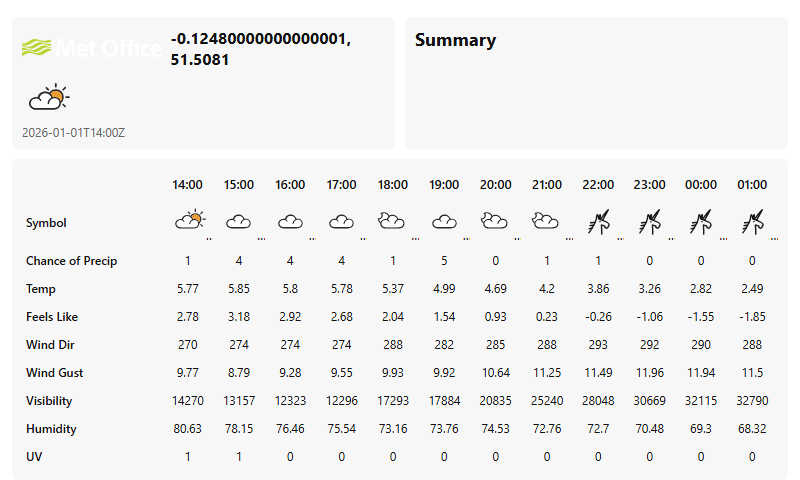
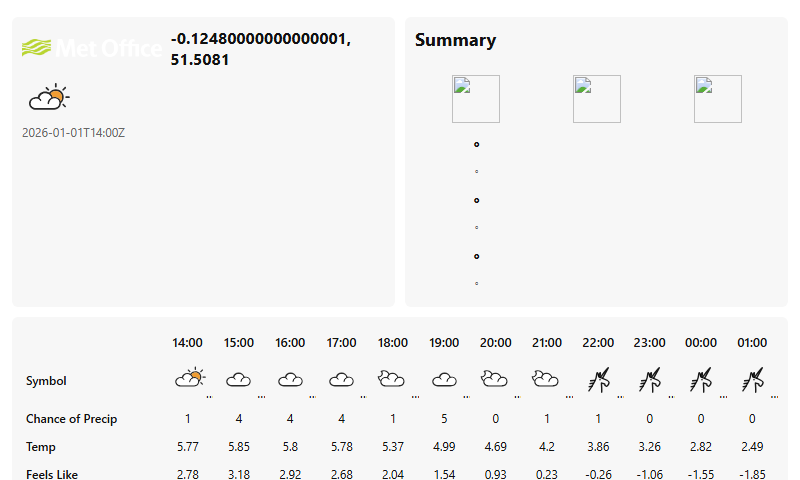
feat: introduce initial html for daily

diff --git a/src/plugins/burnsyweather/render/burnsyweather.html b/src/plugins/burnsyweather/render/burnsyweather.html
@@ -22,7 +22,38 @@
       </div>
     <div class="panel right">
       <div class="panel-title">Summary</div>
-      <div class="panel-body small">{{ content | safe }}</div>
+      <div class="panel-body small">
+        <table class="summary-table">
+          <thead>
+            <tr>
+              <th>{{ daily_1_heading }}</th>
+              <th>{{ daily_2_heading }}</th>
+              <th>{{ daily_3_heading }}</th>
+            </tr>
+          </thead>
+          <tbody>
+            <tr class="symbols-row">
+              <td class="summary-symbol"><img src="{{ daily_1_symbol }}" alt=""></td>
+              <td class="summary-symbol"><img src="{{ daily_2_symbol }}" alt=""></td>
+              <td class="summary-symbol"><img src="{{ daily_3_symbol }}" alt=""></td>
+            </tr>
+            <tr class="temps-row">
+              <td class="summary-temp">
+                <div class="big-temp">{{ daily_1_high }}<span class="deg">°</span></div>
+                <div class="small-temp">{{ daily_1_low }}<span class="deg">°</span></div>
+              </td>
+              <td class="summary-temp">
+                <div class="big-temp">{{ daily_2_high }}<span class="deg">°</span></div>
+                <div class="small-temp">{{ daily_2_low }}<span class="deg">°</span></div>
+              </td>
+              <td class="summary-temp">
+                <div class="big-temp">{{ daily_3_high }}<span class="deg">°</span></div>
+                <div class="small-temp">{{ daily_3_low }}<span class="deg">°</span></div>
+              </td>
+            </tr>
+          </tbody>
+        </table>
+      </div>
     </div>
   </div>
 

diff --git a/src/plugins/burnsyweather/render/burnsyweather.css b/src/plugins/burnsyweather/render/burnsyweather.css
@@ -106,3 +106,13 @@ html,body{height:100%;margin:0;background:var(--bg);color:var(--fg);font-family:
 .forecast-table img{width:36px;height:auto}
 .forecast-table thead th{font-size:13px}
 .forecast-table tbody th{font-weight:600;text-align:left;padding-right:10px}
+
+/* Summary panel table */
+.summary-table{width:100%;border-collapse:collapse;table-layout:fixed}
+.summary-table th,.summary-table td{padding:6px 8px;text-align:center;vertical-align:middle}
+.summary-table thead th{font-size:13px;font-weight:700}
+.summary-symbol img{width:48px;height:auto}
+.summary-temp{display:flex;flex-direction:column;align-items:center;gap:6px}
+.big-temp{font-size:26px;font-weight:800}
+.small-temp{font-size:14px;color:var(--muted)}
+.deg{font-size:0.7em;vertical-align:super;margin-left:2px}
